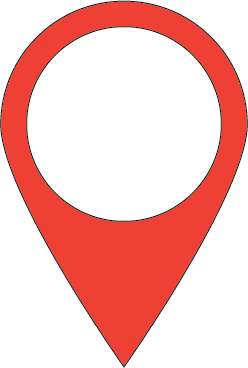
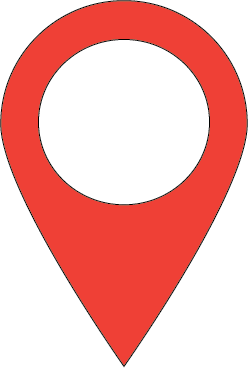
tests

diff --git a/src/component/LocationIcons.js b/src/component/LocationIcons.js
@@ -34,8 +34,8 @@ export const ToiletIcon = L.icon({
 });
 
 export const ParkingIcon = L.icon({
-    iconUrl: require('../default-img/defaultMarkerParking.png'),
-    iconRetinaUrl: require('../default-img/defaultMarkerParking.png'),
+    iconUrl: require('../default-img/parkingMarker.png'),
+    iconRetinaUrl: require('../default-img/parkingMarker.png'),
     iconAnchor: null,
     shadowUrl: null,
     shadowSize: null,
@@ -56,13 +56,13 @@ export const PlaygroundIcon = L.icon({
 });
 
 export const TrainStopIcon = L.icon({
-    iconUrl: require('../default-img/defaultMarkerHSL.png'),
-    iconRetinaUrl: require('../default-img/defaultMarkerHSL.png'),
+    iconUrl: require('../default-img/stopIcon.png'),
+    iconRetinaUrl: require('../default-img/stopIcon.png'),
     iconAnchor: null,
     shadowUrl: null,
     shadowSize: null,
     shadowAnchor: null,
-    iconSize: [25, 35],
+    iconSize: [17, 35],
     className: 'leaflet-venue-icon'
 });
 
